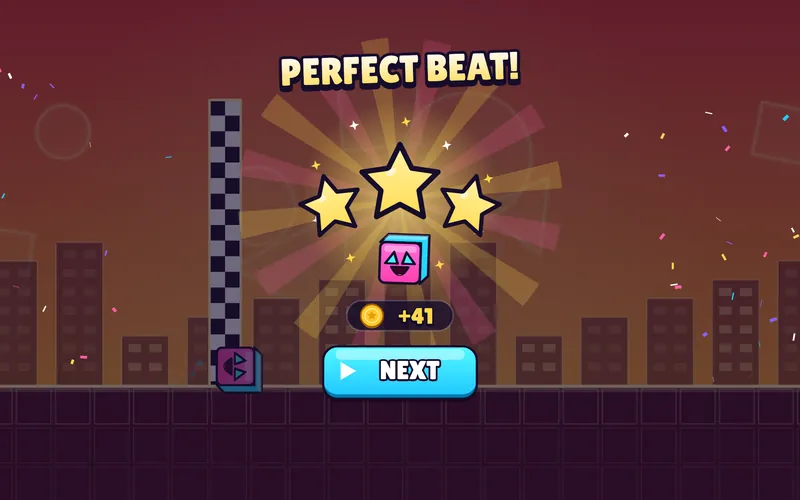
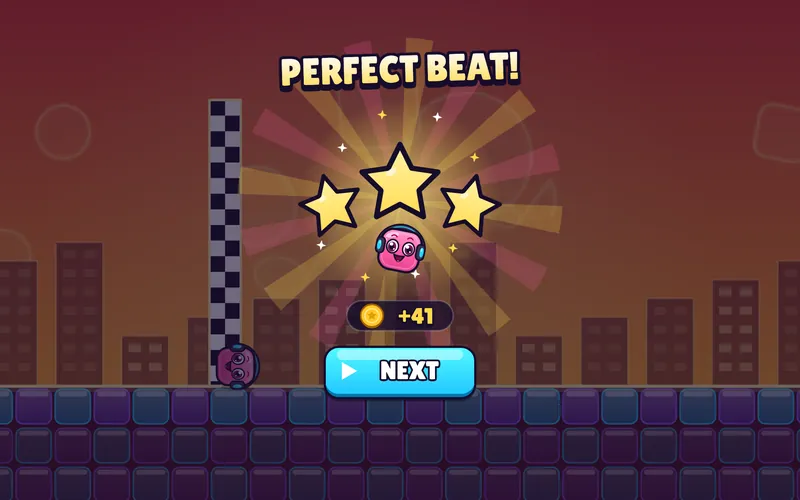
Update 4 games: new art, Obby Party Run renamed Cloud Parkour Run

Changed region(s): [[0.0, 0.06, 1.0, 1.0], [0.9688, 0.45, 1.0, 0.48]]

diff --git a/games/obbyparty.html b/games/obbyparty.html
@@ -1,21 +1,21 @@
 <!DOCTYPE html>
 <html lang="en"><head>
 <meta charset="UTF-8"><meta name="viewport" content="width=device-width, initial-scale=1.0">
-<title>Obby Party Run | Tappimix</title>
-<meta name="description" content="Hop across floating block courses in the sky with your cube buddy!">
+<title>Cloud Parkour Run | Tappimix</title>
+<meta name="description" content="Run and jump up rainbow jelly block courses floating in the sunny sky!">
 <link rel="icon" href="../assets/logo.svg"><link rel="stylesheet" href="../style.css"></head>
 <body>
 <nav class="nav"><a class="logo" href="../index.html"><img src="../assets/logo.svg" alt=""> Tappimix</a><ul><li><a href="../index.html#games">Games</a></li><li><a href="../privacy.html">Privacy</a></li><li><a href="../index.html#contact">Contact</a></li></ul></nav>
 <main class="gp">
 <a class="back" href="../index.html#games">&larr; All games</a>
-<div class="gp-head"><img class="gp-ic" src="../assets/games/obbyparty.webp" alt="Obby Party Run icon" width="256" height="256">
-<div><h1>Obby Party Run</h1><p class="tags"><span>Family</span><span>Free</span><span>Offline</span><span>No ads</span></p>
+<div class="gp-head"><img class="gp-ic" src="../assets/games/obbyparty.webp" alt="Cloud Parkour Run icon" width="256" height="256">
+<div><h1>Cloud Parkour Run</h1><p class="tags"><span>Family</span><span>Free</span><span>Offline</span><span>No ads</span></p>
 <p class="soon">Coming soon to the Amazon Appstore for Fire tablets</p></div></div>
-<p class="gp-short">Hop across floating block courses in the sky with your cube buddy!</p>
-<div class="shots"><img src="../assets/games/obbyparty-1.webp" alt="Obby Party Run screenshot 1" loading="lazy" width="800" height="500"><img src="../assets/games/obbyparty-2.webp" alt="Obby Party Run screenshot 2" loading="lazy" width="800" height="500"><img src="../assets/games/obbyparty-3.webp" alt="Obby Party Run screenshot 3" loading="lazy" width="800" height="500"><img src="../assets/games/obbyparty-4.webp" alt="Obby Party Run screenshot 4" loading="lazy" width="800" height="500"></div>
+<p class="gp-short">Run and jump up rainbow jelly block courses floating in the sunny sky!</p>
+<div class="shots"><img src="../assets/games/obbyparty-1.webp" alt="Cloud Parkour Run screenshot 1" loading="lazy" width="800" height="500"><img src="../assets/games/obbyparty-2.webp" alt="Cloud Parkour Run screenshot 2" loading="lazy" width="800" height="500"><img src="../assets/games/obbyparty-3.webp" alt="Cloud Parkour Run screenshot 3" loading="lazy" width="800" height="500"><img src="../assets/games/obbyparty-4.webp" alt="Cloud Parkour Run screenshot 4" loading="lazy" width="800" height="500"></div>
 <h2>About the game</h2>
-<p>Your smiley cube buddy runs across floating block courses high in the sky. Drag left and right to steer and tap to jump over gaps, onto sliding candy platforms and past spinning foam bars. Steer around purple goo, bounce on springy pads and time your hops on blinking ice blocks. Fall off and you pop right back at the last checkpoint, so every course can be finished.</p>
-<ul class="feats"><li>100 levels in 5 worlds, each with a brand new obstacle</li><li>Easy drag to steer and tap to jump controls with checkpoints</li><li>Unlock 6 cube buddies with hats and colorful outfits</li><li>Simple one-tap controls for all ages</li><li>Made for Fire tablets, old and new models</li><li>Plays fully offline</li></ul>
+<p>Your blocky runner with messy orange hair dashes across rainbow jelly block courses high in the sky. Drag left and right to steer and tap to jump over gaps, onto sliding platforms and past spinning foam bars. Steer around purple goo, bounce on springy pads and time your hops on blinking ice blocks. Fall off and you pop right back at the last checkpoint, so every course in the 100 levels in 5 worlds can be finished.</p>
+<ul class="feats"><li>100 levels in 5 worlds, each with a brand new obstacle</li><li>Easy drag to steer and tap to jump controls with checkpoints</li><li>Unlock 6 runners with hats and colorful outfits</li><li>Simple one-tap controls for all ages</li><li>Made for Fire tablets, old and new models</li><li>Plays fully offline</li></ul>
 <p class="note">No ads, no in-app purchases, no accounts and no data collection. Read our <a href="../privacy.html">privacy policy</a>.</p>
 <div class="pn"><a href="sneakout.html">&larr; Sneak Out Schoolboy</a><a href="blockbuilder.html">Block Builder Craft &rarr;</a></div>
 </main>

diff --git a/games/cubebeat.html b/games/cubebeat.html
@@ -2,7 +2,7 @@
 <html lang="en"><head>
 <meta charset="UTF-8"><meta name="viewport" content="width=device-width, initial-scale=1.0">
 <title>Cube Beat Dash | Tappimix</title>
-<meta name="description" content="Tap to the beat and jump your happy cube over neon bumps!">
+<meta name="description" content="Tap to the beat and bounce your jelly cube over soft gumdrop bumps!">
 <link rel="icon" href="../assets/logo.svg"><link rel="stylesheet" href="../style.css"></head>
 <body>
 <nav class="nav"><a class="logo" href="../index.html"><img src="../assets/logo.svg" alt=""> Tappimix</a><ul><li><a href="../index.html#games">Games</a></li><li><a href="../privacy.html">Privacy</a></li><li><a href="../index.html#contact">Contact</a></li></ul></nav>
@@ -11,10 +11,10 @@
 <div class="gp-head"><img class="gp-ic" src="../assets/games/cubebeat.webp" alt="Cube Beat Dash icon" width="256" height="256">
 <div><h1>Cube Beat Dash</h1><p class="tags"><span>Family</span><span>Free</span><span>Offline</span><span>No ads</span></p>
 <p class="soon">Coming soon to the Amazon Appstore for Fire tablets</p></div></div>
-<p class="gp-short">Tap to the beat and jump your happy cube over neon bumps!</p>
+<p class="gp-short">Tap to the beat and bounce your jelly cube over soft gumdrop bumps!</p>
 <div class="shots"><img src="../assets/games/cubebeat-1.webp" alt="Cube Beat Dash screenshot 1" loading="lazy" width="800" height="500"><img src="../assets/games/cubebeat-2.webp" alt="Cube Beat Dash screenshot 2" loading="lazy" width="800" height="500"><img src="../assets/games/cubebeat-3.webp" alt="Cube Beat Dash screenshot 3" loading="lazy" width="800" height="500"><img src="../assets/games/cubebeat-4.webp" alt="Cube Beat Dash screenshot 4" loading="lazy" width="800" height="500"></div>
 <h2>About the game</h2>
-<p>Your smiling cube dashes forward to a pumping synth beat, and every bump, pit and block is placed on the music. Tap or hold to jump, bounce off yellow pads, tap glowing rings in mid air, flip gravity to run on the ceiling and fly a little rocket through block walls. Checkpoints bring you right back after every bonk, so anyone can reach the finish. Clear a level without a single bonk for three stars and earn coins for new cubes.</p>
+<p>Your smiling jelly cube with big headphones dashes forward to a pumping synth beat, and every bump, pit and block is placed on the music. Tap or hold to jump, bounce off yellow pads, tap glowing rings in mid air, flip gravity to run on the ceiling and fly a little rocket through block walls. Checkpoints bring you right back after every bonk, so anyone can reach the finish. Clear a level without a single bonk for three stars and earn coins for new cubes.</p>
 <ul class="feats"><li>100 levels in 5 worlds, each with its own song and a new move</li><li>One tap controls with friendly checkpoints</li><li>Unlock 6 colorful cubes with the coins you earn</li><li>Simple one-tap controls for all ages</li><li>Made for Fire tablets, old and new models</li><li>Plays fully offline</li></ul>
 <p class="note">No ads, no in-app purchases, no accounts and no data collection. Read our <a href="../privacy.html">privacy policy</a>.</p>
 <div class="pn"><a href="tinytown.html">&larr; Tiny Town Life World</a><a href="planetpoke.html">Planet Poke Lab &rarr;</a></div>

diff --git a/games/crittergo.html b/games/crittergo.html
@@ -2,7 +2,7 @@
 <html lang="en"><head>
 <meta charset="UTF-8"><meta name="viewport" content="width=device-width, initial-scale=1.0">
 <title>Critter Catch Go | Tappimix</title>
-<meta name="description" content="Walk the map, find cute critters and flick a bubble ball to catch them all!">
+<meta name="description" content="Walk the map, find cute critters and flick your swirl ball to catch them all!">
 <link rel="icon" href="../assets/logo.svg"><link rel="stylesheet" href="../style.css"></head>
 <body>
 <nav class="nav"><a class="logo" href="../index.html"><img src="../assets/logo.svg" alt=""> Tappimix</a><ul><li><a href="../index.html#games">Games</a></li><li><a href="../privacy.html">Privacy</a></li><li><a href="../index.html#contact">Contact</a></li></ul></nav>
@@ -11,10 +11,10 @@
 <div class="gp-head"><img class="gp-ic" src="../assets/games/crittergo.webp" alt="Critter Catch Go icon" width="256" height="256">
 <div><h1>Critter Catch Go</h1><p class="tags"><span>Family</span><span>Free</span><span>Offline</span><span>No ads</span></p>
 <p class="soon">Coming soon to the Amazon Appstore for Fire tablets</p></div></div>
-<p class="gp-short">Walk the map, find cute critters and flick a bubble ball to catch them all!</p>
+<p class="gp-short">Walk the map, find cute critters and flick your swirl ball to catch them all!</p>
 <div class="shots"><img src="../assets/games/crittergo-1.webp" alt="Critter Catch Go screenshot 1" loading="lazy" width="800" height="500"><img src="../assets/games/crittergo-2.webp" alt="Critter Catch Go screenshot 2" loading="lazy" width="800" height="500"><img src="../assets/games/crittergo-3.webp" alt="Critter Catch Go screenshot 3" loading="lazy" width="800" height="500"><img src="../assets/games/crittergo-4.webp" alt="Critter Catch Go screenshot 4" loading="lazy" width="800" height="500"></div>
 <h2>About the game</h2>
-<p>Walk through cozy maps and tap the rustling bushes to meet cute critters. Flick the bubble ball up when the ring is small for a super catch, but watch out for wind, shy critters and bubble shields. Every catch gives candy so your baby critters can grow up, and every new friend fills a page of your collection book. Find all 100 original critters across 100 levels in 5 worlds.</p>
+<p>Walk through cozy maps and tap the rustling bushes to meet cute critters. Flick your teal swirl ball with the golden paw latch up when the ring is small for a super catch, but watch out for wind, shy critters and bubble shields. Every catch gives candy so your baby critters can grow up, and every new friend fills a page of your collection book. Find all 100 original critters across 100 levels in 5 worlds.</p>
 <ul class="feats"><li>100 original critters to collect and evolve</li><li>100 levels in 5 worlds from meadow to rainbow peaks</li><li>Simple flick to catch, perfect for kids</li><li>Simple one-tap controls for all ages</li><li>Made for Fire tablets, old and new models</li><li>Plays fully offline</li></ul>
 <p class="note">No ads, no in-app purchases, no accounts and no data collection. Read our <a href="../privacy.html">privacy policy</a>.</p>
 <div class="pn"><a href="dreamteam.html">&larr; Dream Team Soccer Cards</a><a href="pixelcraft.html">Pixel Craft World &rarr;</a></div>

diff --git a/games/brawlbuddies.html b/games/brawlbuddies.html
@@ -14,7 +14,7 @@
 <p class="gp-short">Team up with cute buddies in soft 3v3 arena battles with water balloons!</p>
 <div class="shots"><img src="../assets/games/brawlbuddies-1.webp" alt="Brawl Buddies Arena screenshot 1" loading="lazy" width="800" height="500"><img src="../assets/games/brawlbuddies-2.webp" alt="Brawl Buddies Arena screenshot 2" loading="lazy" width="800" height="500"><img src="../assets/games/brawlbuddies-3.webp" alt="Brawl Buddies Arena screenshot 3" loading="lazy" width="800" height="500"><img src="../assets/games/brawlbuddies-4.webp" alt="Brawl Buddies Arena screenshot 4" loading="lazy" width="800" height="500"></div>
 <h2>About the game</h2>
-<p>Drag anywhere to move your buddy around the arena while it splashes the pink team automatically with water balloons, foam punches and bubbles. Grab gems from the middle, hold the capture zone or win a splash tag race together with two bot teammates. When the gadget pad lights up, tap it for a big balloon, a foam dash or a bubble shield. Play 100 matches in 5 worlds on the trophy road and unlock 10 different buddies.</p>
+<p>Lead Splash, the cheeky masked hero in a red bandana and purple hoodie, or one of 9 other buddies. Drag anywhere to move around the arena while your buddy splashes the pink team automatically with water balloons, foam punches and bubbles. Grab gems from the middle, hold the capture zone or win a splash tag race together with two bot teammates. When the gadget pad lights up, tap it for a big balloon, a foam dash or a bubble shield. Play 100 matches in 5 worlds on the trophy road and unlock 10 different buddies.</p>
 <ul class="feats"><li>100 matches in 5 worlds with gem grab, capture zone and splash tag</li><li>10 unlockable buddies with soft gadgets and fun hats</li><li>Kid friendly splash battles: buddies just get splatted and bounce back</li><li>Simple one-tap controls for all ages</li><li>Made for Fire tablets, old and new models</li><li>Plays fully offline</li></ul>
 <p class="note">No ads, no in-app purchases, no accounts and no data collection. Read our <a href="../privacy.html">privacy policy</a>.</p>
 <div class="pn"><a href="parkingpro.html">&larr; Car Parking Pro City</a><a href="mayhemracers.html">Mayhem Racers City &rarr;</a></div>

diff --git a/games/blockbuilder.html b/games/blockbuilder.html
@@ -17,7 +17,7 @@
 <p>Pick a building card and tap a free lot: houses, bakeries, parks and toy shops pop up block by block. Villagers move in and walk the streets, and your shops fill bubbles with bricks that you tap to collect and spend on new buildings. Finish 100 build quests in 5 towns: build piers on the harbor water, tap snow off the roofs, dig wells to water desert farms and ride balloon lifts up to the cloud islands.</p>
 <ul class="feats"><li>100 build quests in 5 towns with a new twist in each</li><li>Villagers move in and your town grows block by block</li><li>Tap brick bubbles to earn and keep building</li><li>Simple one-tap controls for all ages</li><li>Made for Fire tablets, old and new models</li><li>Plays fully offline</li></ul>
 <p class="note">No ads, no in-app purchases, no accounts and no data collection. Read our <a href="../privacy.html">privacy policy</a>.</p>
-<div class="pn"><a href="obbyparty.html">&larr; Obby Party Run</a><a href="paintroyale.html">Paint Splash Royale &rarr;</a></div>
+<div class="pn"><a href="obbyparty.html">&larr; Cloud Parkour Run</a><a href="paintroyale.html">Paint Splash Royale &rarr;</a></div>
 </main>
 <footer><div>© 2026 Tappimix. All rights reserved.</div><ul><li><a href="../index.html">Home</a></li><li><a href="../privacy.html">Privacy</a></li><li><a href="mailto:support@tappimix.com">Contact</a></li></ul></footer>
 </body></html>

diff --git a/games/sneakout.html b/games/sneakout.html
@@ -17,7 +17,7 @@
 <p>Every tap is one tiptoe step, then the family takes a turn. Wait while dad snores, step around creaky boards, dodge mom on her walk and throw a squeaky duck to make them look away. Grab your sneakers and backpack, hide in blanket forts and reach the door without being seen. Finish in few steps to earn all three stars across 100 levels in 5 worlds.</p>
 <ul class="feats"><li>100 levels in 5 worlds with new family tricks</li><li>Turn based sneaking puzzles anyone can play</li><li>Hide, distract and pack your bag to escape</li><li>Simple one-tap controls for all ages</li><li>Made for Fire tablets, old and new models</li><li>Plays fully offline</li></ul>
 <p class="note">No ads, no in-app purchases, no accounts and no data collection. Read our <a href="../privacy.html">privacy policy</a>.</p>
-<div class="pn"><a href="prankteacher.html">&larr; Prank the Teacher</a><a href="obbyparty.html">Obby Party Run &rarr;</a></div>
+<div class="pn"><a href="prankteacher.html">&larr; Prank the Teacher</a><a href="obbyparty.html">Cloud Parkour Run &rarr;</a></div>
 </main>
 <footer><div>© 2026 Tappimix. All rights reserved.</div><ul><li><a href="../index.html">Home</a></li><li><a href="../privacy.html">Privacy</a></li><li><a href="mailto:support@tappimix.com">Contact</a></li></ul></footer>
 </body></html>

diff --git a/index.html b/index.html
@@ -17,7 +17,7 @@
 <p>New games are coming soon to the Amazon Appstore.</p>
 <!-- GAMES:BEGIN -->
 <div class="gamegrid">
-<a class="game" href="games/obbyparty.html"><img src="assets/games/obbyparty.webp" alt="Obby Party Run icon" loading="lazy" width="256" height="256"><b>Obby Party Run</b></a>
+<a class="game" href="games/obbyparty.html"><img src="assets/games/obbyparty.webp" alt="Cloud Parkour Run icon" loading="lazy" width="256" height="256"><b>Cloud Parkour Run</b></a>
 <a class="game" href="games/blockbuilder.html"><img src="assets/games/blockbuilder.webp" alt="Block Builder Craft icon" loading="lazy" width="256" height="256"><b>Block Builder Craft</b></a>
 <a class="game" href="games/paintroyale.html"><img src="assets/games/paintroyale.webp" alt="Paint Splash Royale icon" loading="lazy" width="256" height="256"><b>Paint Splash Royale</b></a>
 <a class="game" href="games/fortrush.html"><img src="assets/games/fortrush.webp" alt="Fort Build Rush icon" loading="lazy" width="256" height="256"><b>Fort Build Rush</b></a>
